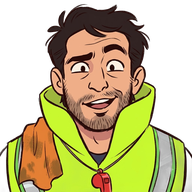
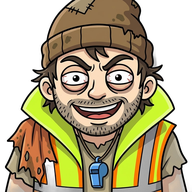
feat(arte): la cara del Trapito, ahora en el estilo del juego
Entra la regeneración y vuelve la entrada al manifest. Los tres defectos que
tenía la anterior están corregidos, y se ven comparando las dos —quedan una al
lado de la otra en `procesadas/`, la vieja como `RECHAZADA-fuera-de-estilo`—:

- contorno negro grueso y parejo, en vez de línea fina;
- cel shading plano, sin los degradados de aerógrafo en piel y pelo;
- caricatura de verdad —ojos grandes, boca abierta, cejas al techo— en lugar de
  una cara realista y linda;
- y fondo blanco limpio hasta las esquinas, así el recorte automático no deja el
  chaleco flúo haciendo de fondo.

Conserva los identificadores de cabeza: el gorro parchado, el trapo naranja al
hombro, el chaleco y el silbato.

diff --git a/Tools/asset-pipeline/prompts/gemini_pro/166_trapito_face.md b/Tools/asset-pipeline/prompts/gemini_pro/166_trapito_face.md
@@ -1,7 +1,7 @@
 # 166 — Cara de El Trapito (RF-05 — `trapito_face`)
 
 - **archivo**: `trapito_face.png`
-- **estado**: pendiente
+- **estado**: hecho
 - **referencia**: adjuntar `dropbox/procesadas/trapito.png`
 - **destino**: Tools/asset-pipeline/dropbox/
 
